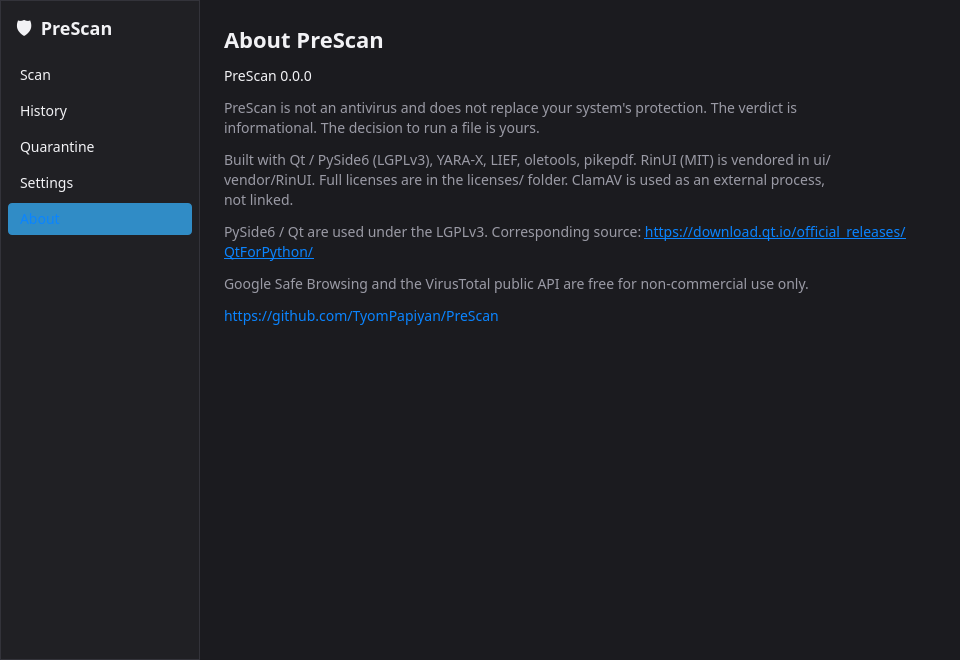
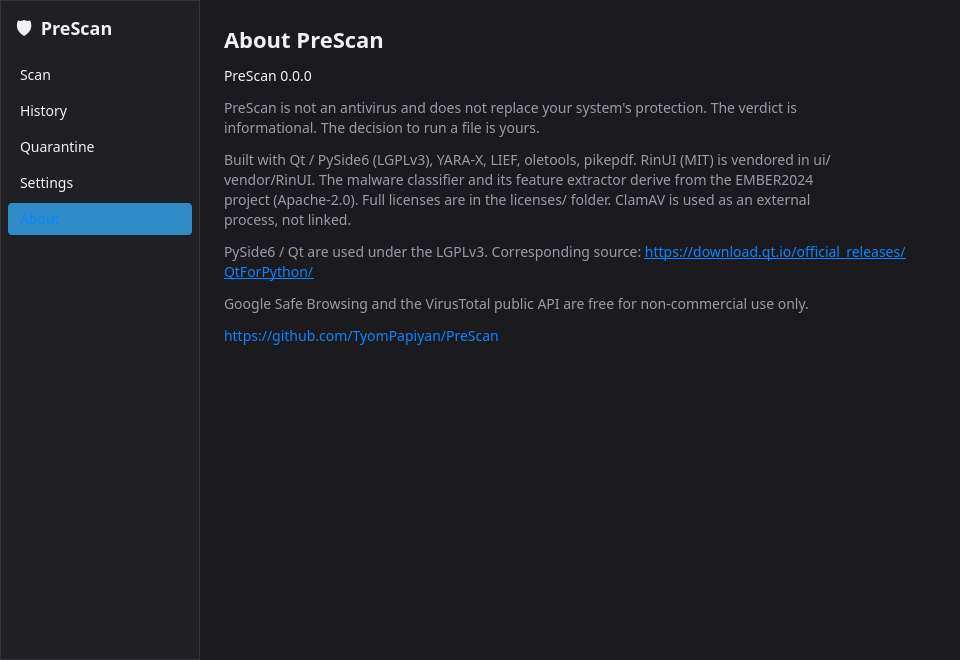
licenses,ui: EMBER2024 Apache-2.0 provenance in licenses/ and About screen

Changed region(s): [[0.2188, 0.2424, 0.9375, 0.5152]]

diff --git a/src/prescan/ui/i18n/prescan_ru.ts b/src/prescan/ui/i18n/prescan_ru.ts
@@ -15,16 +15,16 @@
     </message>
     <message>
         <location filename="../qml/pages/AboutPage.qml" line="24"/>
-        <source>Built with Qt / PySide6 (LGPLv3), YARA-X, LIEF, oletools, pikepdf. RinUI (MIT) is vendored in ui/vendor/RinUI. Full licenses are in the licenses/ folder. ClamAV is used as an external process, not linked.</source>
-        <translation>Собрано на Qt / PySide6 (LGPLv3), YARA-X, LIEF, oletools, pikepdf. RinUI (MIT) вендорится в ui/vendor/RinUI. Полные лицензии — в папке licenses/. ClamAV вызывается как внешний процесс, без линковки.</translation>
+        <source>Built with Qt / PySide6 (LGPLv3), YARA-X, LIEF, oletools, pikepdf. RinUI (MIT) is vendored in ui/vendor/RinUI. The malware classifier and its feature extractor derive from the EMBER2024 project (Apache-2.0). Full licenses are in the licenses/ folder. ClamAV is used as an external process, not linked.</source>
+        <translation>Собрано на Qt / PySide6 (LGPLv3), YARA-X, LIEF, oletools, pikepdf. RinUI (MIT) вендорится в ui/vendor/RinUI. Классификатор вредоносности и его экстрактор признаков основаны на проекте EMBER2024 (Apache-2.0). Полные лицензии — в папке licenses/. ClamAV вызывается как внешний процесс, без линковки.</translation>
     </message>
     <message>
-        <location filename="../qml/pages/AboutPage.qml" line="35"/>
+        <location filename="../qml/pages/AboutPage.qml" line="38"/>
         <source>PySide6 / Qt are used under the LGPLv3. Corresponding source: </source>
         <translation>PySide6 / Qt используются на условиях LGPLv3. Исходный код: </translation>
     </message>
     <message>
-        <location filename="../qml/pages/AboutPage.qml" line="43"/>
+        <location filename="../qml/pages/AboutPage.qml" line="46"/>
         <source>Google Safe Browsing and the VirusTotal public API are free for non-commercial use only.</source>
         <translation>Google Safe Browsing и публичный API VirusTotal бесплатны только для некоммерческого использования.</translation>
     </message>

diff --git a/src/prescan/ui/i18n/prescan_en.ts b/src/prescan/ui/i18n/prescan_en.ts
@@ -15,16 +15,16 @@
     </message>
     <message>
         <location filename="../qml/pages/AboutPage.qml" line="24"/>
-        <source>Built with Qt / PySide6 (LGPLv3), YARA-X, LIEF, oletools, pikepdf. RinUI (MIT) is vendored in ui/vendor/RinUI. Full licenses are in the licenses/ folder. ClamAV is used as an external process, not linked.</source>
+        <source>Built with Qt / PySide6 (LGPLv3), YARA-X, LIEF, oletools, pikepdf. RinUI (MIT) is vendored in ui/vendor/RinUI. The malware classifier and its feature extractor derive from the EMBER2024 project (Apache-2.0). Full licenses are in the licenses/ folder. ClamAV is used as an external process, not linked.</source>
         <translation type="unfinished"></translation>
     </message>
     <message>
-        <location filename="../qml/pages/AboutPage.qml" line="35"/>
+        <location filename="../qml/pages/AboutPage.qml" line="38"/>
         <source>PySide6 / Qt are used under the LGPLv3. Corresponding source: </source>
         <translation type="unfinished"></translation>
     </message>
     <message>
-        <location filename="../qml/pages/AboutPage.qml" line="43"/>
+        <location filename="../qml/pages/AboutPage.qml" line="46"/>
         <source>Google Safe Browsing and the VirusTotal public API are free for non-commercial use only.</source>
         <translation type="unfinished"></translation>
     </message>

diff --git a/src/prescan/ui/qml/pages/AboutPage.qml b/src/prescan/ui/qml/pages/AboutPage.qml
@@ -22,8 +22,10 @@ Item {
             wrapMode: Text.WordWrap
             color: theme.subtext
             text: qsTr("Built with Qt / PySide6 (LGPLv3), YARA-X, LIEF, oletools, pikepdf. "
-                + "RinUI (MIT) is vendored in ui/vendor/RinUI. Full licenses are in the "
-                + "licenses/ folder. ClamAV is used as an external process, not linked.")
+                + "RinUI (MIT) is vendored in ui/vendor/RinUI. The malware classifier and "
+                + "its feature extractor derive from the EMBER2024 project (Apache-2.0). "
+                + "Full licenses are in the licenses/ folder. ClamAV is used as an "
+                + "external process, not linked.")
         }
         // LGPLv3 §11.2: link to the corresponding PySide6/Qt sources.
         Label {

diff --git a/licenses/README.md b/licenses/README.md
@@ -18,12 +18,18 @@ whenever a dependency is added.
 | py7zr | LGPL-2.1+ | (to add) | https://github.com/miurahr/py7zr |
 | YARA Forge | mixed permissive | (downloaded by user) | https://yaraforge.io/ |
 | Microsoft Defender CLI | Windows EULA | (not distributed) | — |
-| EMBER2024 benchmark model | Apache-2.0 | (to add on M6a) | https://huggingface.co/joyce8/EMBER2024-benchmark-models |
+| EMBER2024 benchmark model | Apache-2.0 | `Apache2-EMBER2024.txt` | https://huggingface.co/joyce8/EMBER2024-benchmark-models |
+| EMBER2024 / thrember (feature code) | Apache-2.0 | `Apache2-EMBER2024.txt` | https://github.com/FutureComputing4AI/EMBER2024 |
 
 ## Notes
 
 - **ClamAV** is never linked (`libclamav`); it is called as the external
   `clamd` process. Binaries are not embedded in the installer (spec §10.2, §11.2).
 - **capa** is called as an external process (`capa --json`), not linked.
+- **EMBER2024**: the shipped `model.onnx` is converted from the Apache-2.0
+  `EMBER2024_all` LightGBM benchmark model. The feature extractor in
+  `core/ml/features.py` and `core/ml/pefile_warnings.txt` are a derivative of the
+  Apache-2.0 `thrember` package (EMBER2024). `model.onnx` itself is downloaded by
+  the user / build step, never committed to the repo (spec §11.2).
 - Full license texts are placeholders on M0 and are completed before the M7
   release build.
